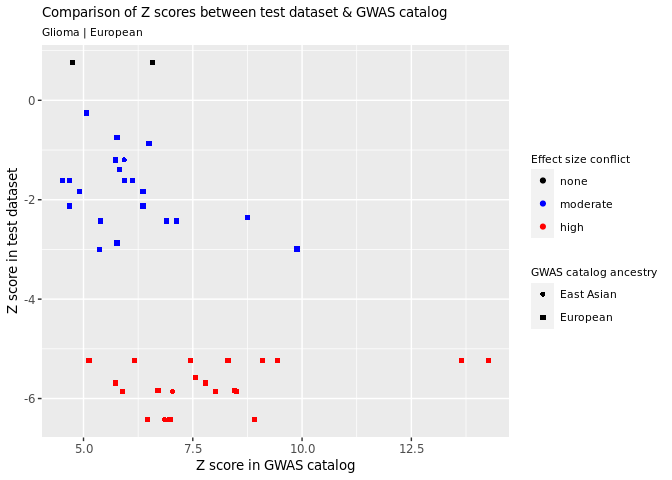
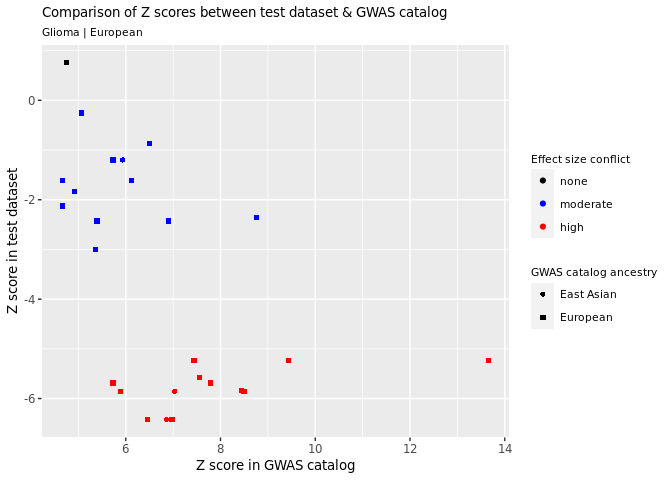
update readme

diff --git a/README.md b/README.md
@@ -75,6 +75,7 @@ In the above example, we extracted the summary data for the SNPs of interest fro
 EFO<-get_efo(trait="thyroid cancer")
 snplist<-make_snplist(efo_id = EFO$efo_id,trait="thyroid carcinoma")
 thy <- ieugwasr::associations(id="ieu-a-1082", variants=snplist,proxies=0)  
+#> API: public: http://gwas-api.mrcieu.ac.uk/
 ```
 
 Returning to the glioma example, having extracted the summary data for some SNPs, we now need to format the summary data. This is to get the data into the expected format for the QC tests to come.
@@ -149,6 +150,9 @@ Note that the predict\_lnor\_sh can be quite slow, so you may want to clump your
 
 ``` r
 Clump<-ieugwasr::ld_clump(clump_r2 = 0.01,clump_p=1e-8,dplyr::tibble(rsid=Dat$rsid, pval=Dat$p, id=Dat$id),pop="EUR")
+#> Please look at vignettes for options on running this locally if you need to run many instances of this command.
+#> Clumping , 22 variants, using EUR population reference
+#> Removing 19 of 22 variants due to LD with other variants or absence from LD reference panel
 Dat<-Dat[Dat$rsid %in% Clump$rsid,]
 Pred<-predict_lnor_sh(dat=Dat)
 Plot4<-make_plot_pred_effect(dat=Pred)
@@ -176,12 +180,11 @@ gc_list<-find_hits_in_gwas_catalog(gwas_hits=Dat$rsid,efo_id=EFO$efo_id,distance
 #> Using GRCh38.p13 of human genome from ensembl for genomic coordinates
 gc_list
 #> $not_in_gc
-#> character(0)
+#> [1] "rs6010620"  "rs6089953"  "rs1412829"  "rs2151280"  "rs10120688"
+#> [6] "rs1063192"  "rs7049105"  "rs4977756"  "rs2157719" 
 #> 
 #> $in_gc
-#>  [1] "rs2736100"  "rs2853676"  "rs10120688" "rs1063192"  "rs1412829" 
-#>  [6] "rs2151280"  "rs2157719"  "rs7049105"  "rs4977756"  "rs6010620" 
-#> [11] "rs6089953"
+#> [1] "rs2736100" "rs2853676"
 ```
 
 All the top hits for glioma in the test dataset are either associated with glioma in the GWAS cataog or are in close physical proximity to a reported association for glioma (see $in\_gc).
@@ -204,7 +207,7 @@ Next we combine all the plots into a single report.
 ``` r
 Plot_list2<-ls()[grep("Plot[0-9]",ls())] 
 Plot_list<-lapply(1:length(Plot_list2),FUN=function(x) eval(parse(text=Plot_list2[x])))
-combine_plots(Plot_list=Plot_list,out_file="~/qc_report.png")
+combine_plots(Plot_list=Plot_list,out_file="qc_report.png")
 ```
 
 !["qc\_report.png"](/man/figures/README-qc_report.png)
@@ -215,28 +218,17 @@ In this example we use the package to check the allele frequency metadata from a
 
 ``` r
 library(CheckSumStats)
-EFO<-get_efo(trait="fasting glucose")
-EFO
-#> $efo_id
-#> [1] "EFO_0004468" "EFO_0004465"
-#> 
-#> $confidence
-#> [1] "confidence:GOOD"
-snplist<-make_snplist(efo_id=EFO$efo_id,trait="fasting blood glucose",ref1000G_superpops=TRUE)
-length(snplist)-2297 #Number of SNPs associated with fasting glucose in the GWAS catalog
-#> [1] 566
+utils::data("refdat_1000G_superpops")
+snplist<-unique(refdat_1000G_superpops$SNP)
 glu <- ieugwasr::associations(id="ebi-a-GCST005186", variants=snplist,proxies=0)  
-#> API: public: http://gwas-api.mrcieu.ac.uk/
-dim(glu)
-#> [1] 541  12
-Dat<-format_data(dat=glu,outcome="Fasting glucose",population="European",pmid=22581228,study="",ncontrol="n",rsid="rsid",effect_allele="ea",other_allele="nea",beta="beta",se="se",eaf="eaf",p="p",efo_id=EFO$efo_id)
+Dat<-format_data(dat=glu,outcome="Fasting glucose",population="European",pmid=22581228,study="",ncontrol="n",rsid="rsid",effect_allele="ea",other_allele="nea",beta="beta",se="se",eaf="eaf",p="p")
 Plot1<-make_plot_maf(ref_1000G=c("AFR","AMR","EAS","EUR","SAS","ALL"),target_dat=Dat)
 Plot1
 ```
 
-<img src="man/figures/README-glucose1-1.png" width="100%" />
+!["example2.png"](/man/figures/README-example2.png)
 
-Each red data point corresponds to an allele frequency conflict and is identified for approximately half of the SNPs. This pattern occurs when reported effect allele frequency corresponds to minor allele frequency and the minor allele is not always the effect allele.
+Each red data point corresponds to an allele frequency conflict and is identified for approximately half of the SNPs. This pattern occurs when reported effect allele frequency corresponds to minor allele frequency and the minor allele has not been specifically modelled as the effect allele.
 
 # <a id="example_3"></a> Example 3. Check the summary and meta data from a GWAS of arachidonic acid.
 
